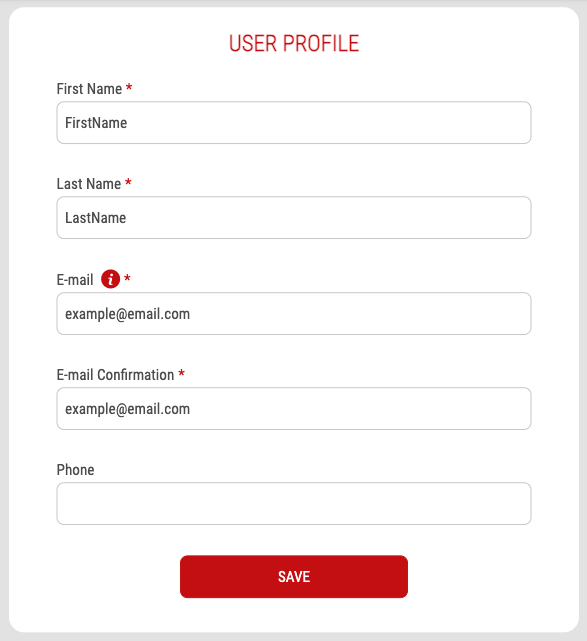
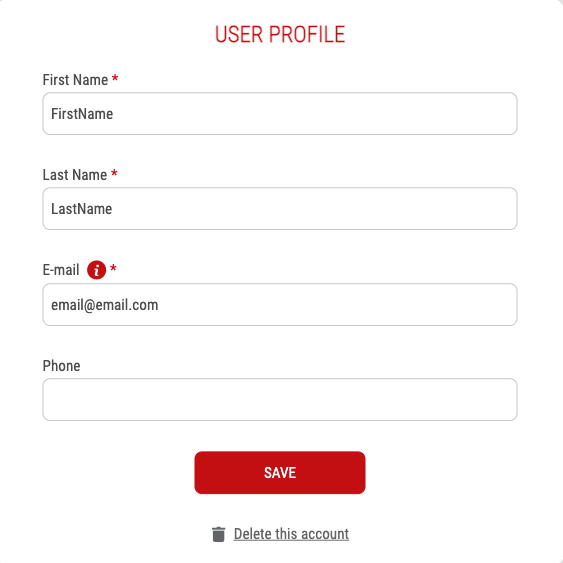
edit

diff --git a/src/css/custom.css b/src/css/custom.css
@@ -59,6 +59,10 @@
     --ifm-background-color: hsla(220, 2%, 15%, 1) !important;
 }
 
+.hidden {
+    display: none !important;
+}
+
 .markdown {
     > h2 {
         --ifm-h2-font-size: 1.9rem;
@@ -99,6 +103,15 @@
     --ifm-footer-title-color: var(--ifm-color-white);
 
     background-color: var(--ifm-footer-background-color);
+}
+
+@media screen and (min-height: 1080px) {
+    .footer {
+        position: sticky;
+        width: 100%;
+        bottom: 0;
+        z-index: 1000; /* Adjust the z-index based on your needs */
+    }
 }
 
 img {

diff --git a/docusaurus.config.js b/docusaurus.config.js
@@ -61,7 +61,7 @@ const config = {
           label: 'Documentation',
         },
         {
-          to: 'updates/release-notes',
+          to: 'news/release-notes',
           position: 'left',
           label: 'Release Notes',
         },

diff --git a/docs/news/release-notes.md b/docs/news/release-notes.md
@@ -1,0 +1,111 @@
+---
+title: 'Release Notes'
+metaTitle: "Release Notes"
+description: ''
+sidebar_position: 1
+pagination_next: null
+pagination_prev: null
+---
+
+# Release Notes
+
+## Version 1.4.2 [2023-12-18]
+
+### New Features
+
+#### End Users
+
+- **Improved Energy Stats Date Picker**: Enhanced date selection on the Installation Dashboard with added interval selectors, navigation arrows, and defaulting to 'day' with the current date.
+
+- **Show Slave Data on Offline Systems**: End users can now access slave data even during communication issues with systems (offline/error installations).
+
+- **Redesigned Registration Process**: Streamlined registration to prevent incomplete installations or accounts.
+  - Removed type of registration selection.
+  - Clicking 'Sign Up' redirects to Personal Registration page.
+  - Two-step process:
+    1. Email and inverter serial number confirmation.
+    2. Completion of necessary fields for a new account/installation.
+  - Email and inverter serial number are non-editable after progressing to the second step.
+  - No data saved until successful account creation.
+  - After creating a new account, automatic login and redirection to the user dashboard.
+  - Settings Page: 'Street' field no longer required; fixed user menu in the top right corner.
+
+#### Company Users
+
+- **Filtering Master-Slave Installations**: Company users can filter master-slave installations on the installation list with a new 'Master-Slave' value in the 'Type' column.
+
+- **Gridview Filters Highlight**: Company users now see highlighted filter buttons indicating active filters.
+  - Temporarily changes the color of the 'Cancel filters' button when filters are active.
+  - Remember installation list filters for each user:
+    - Currently selected filters, sorting options, and paging options are cached.
+  - Added a new icon to the 'Type' column indicating master-slave systems on the installation list.
+
+### Bug Fixes
+
+#### End Users
+
+- **Dashboard**: Resolved an issue where energy stats graphs displaced data labels.
+
+#### Company Users
+
+- **Last Contact Format Date Fix**: Resolved the last contact format date issue.
+- **Users Management Fixes**: Preserved filters during sorting in Users Management.
+- **Localization and Device Management Fixes**: Fixed filter buttons overlap and button icon issues.
+- **Installation List Bottom Buttons Fix**: Resolved the issue of bottom buttons overlapping.
+
+---
+
+## Version 1.4.1 [2023-11-09]
+
+### New Features
+
+#### End Users
+
+- **Reports Toggle Button**: Users can switch displayed data between total or detailed values with a toggle button.
+  - Improved styles for mobile devices - padding in the chart and its legend.
+
+- **Installation Settings Redesign**: One-step installation settings.
+  - Added the possibility to write text for search to companies dropdown list, a button for clear selected company.
+  - When the installation is 'Unclassified', on the UI side, there is no selected company.
+  - Added validation to 'Total Installed Capacity' on PV Panel and Battery: Must be a non-negative value.
+
+- **Added Exception for Old Battery Serial Numbers**: When the BMS serial number is '0180A000000000', it's identified as a battery master device.
+
+- **Total/Detail View for Range 'All'**: The toggle button is visible for range 'All', and the user can switch between historical total numbers or year subtotals.
+
+#### Company Users
+
+- **Hideable Columns on Gridview**: In the list of installations admins can use the button titled "Edit Columns" at the bottom right corner.
+
+- **Added Column 'Created', Enabled Sorting, and Updated CSV Export**:
+  - Added the column 'CREATED' to the installation list.
+  - Enabled sorting of the installation list by 'PV INST. POWER' and 'BATTERY INST. CAPACITY'.
+  - Added columns 'BMS SW VERSION' and 'CREATED' to CSV reports.
+
+### Bug Fixes
+
+#### End Users
+
+- **Installation Detail Improvements**:
+  - Removed the subtitle (device name).
+  - Renamed "others" to "current values".
+  - Renamed "power battery master" to "battery info".
+  - Added values (AC power, external power, and battery power) to the inverter.
+  - Removed the value of external power from the slave inverter.
+  - Buttons for the claim process moved outside the scrollbar.
+  - Rounded values of heat sink temperatures.
+
+- **Remember Series Selection During Date Changes**: Improved series selection retention during date changes.
+
+- **Zoom-Out Limited to 24 Hours on Power Reports**: Restricted zoom-out functionality to 24 hours on power reports.
+
+- **Check Null Value of Battery SN**: Added a check for the null value of the serial number on the Installation Detail page to display as much data as possible.
+
+#### Company Users
+
+- **Unifying Menu Titles & Dialog Errors**: Left menu list items are pluralized nouns (Installations, Users, Companies, Manufacturers).
+  - Unified error message presentation in the edit user/company dialogs (Admin, Manufacturer & Company level).
+
+- **Button 'Edit Columns' Translated to CZ and DE**: Resolved translation issue for the button 'Edit Columns'.
+
+For any issues or feedback, please let us know.

diff --git a/docs/delete-account.md b/docs/delete-account.md
@@ -1,0 +1,45 @@
+---
+title: 'Delete Account'
+metaTitle: "Delete Account"
+description: ''
+sidebar_position: 8
+---
+
+# Delete Account
+
+## Step 1: Accessing Delete User Account
+
+- **On Desktop:**
+  Click on the user icon with your email address located in the top right corner.
+
+- **On Mobile:**
+  Open the popup menu by clicking the user icon in the top right corner.
+
+Find and select "Edit Profile" from the menu.
+
+<img src="/img/screenshots/edit-profile-1.png" class="img-50"/>
+
+## Step 2: Initiating Account Deletion
+
+Next, click on the link "Delete this account" below the Save button.
+<img src="/img/screenshots/edit-profile-2.png" class="img-50"/>
+
+## Step 3: Confirm Deletion
+
+The confirmation dialog will be shown.
+
+- If you're sure about deleting your account, click "Delete."
+
+- If you decide not to proceed, click "Cancel" in the confirmation dialog to abort the process.
+
+<img src="/img/screenshots/delete-profile-1.png" class="img-50"/>
+
+## Step 4: Account Deletion Complete
+
+Once confirmed, the system will process your request. A notification will indicate that your account has been successfully deleted.
+
+You will be logged out, and you can now close the browser or exit the app.
+
+:::tip
+You can restore your account within 30 days; check your email for more information.
+:::

diff --git a/docs/edit-profile.md b/docs/edit-profile.md
@@ -20,6 +20,7 @@ To enhance your user experience and keep your information up-to-date, you can ed
 ## Step 2: Editing User Profile
 
 - After selecting "Edit Profile," you will be redirected to the user profile page.
+<img src="/img/screenshots/edit-profile-2.png" class="img-50"/>
 - On this page, you can modify the following details:
     - First Name
     - Last Name
@@ -27,8 +28,8 @@ To enhance your user experience and keep your information up-to-date, you can ed
     - Phone Number
 
 - If you decide to change your email address, you must also confirm the new email by filling in the "Email Confirmation" field to prevent typos.
+<img src="/img/screenshots/edit-profile-3.png" class="img-50"/>
 
-<img src="/img/screenshots/edit-profile-2.png" class="img-50"/>
 
 ## Step 3: Saving Changes
 
